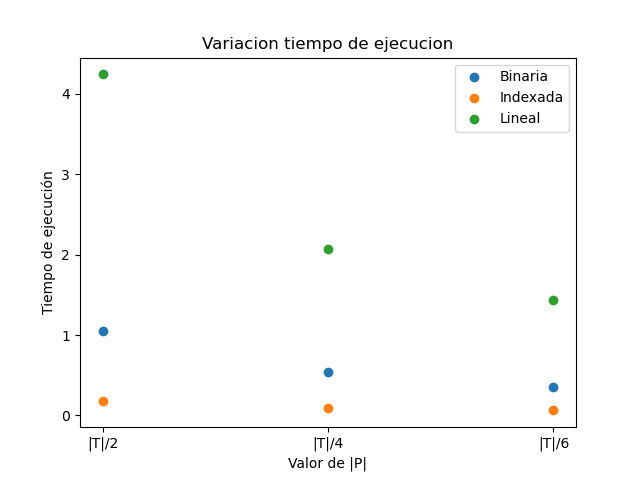
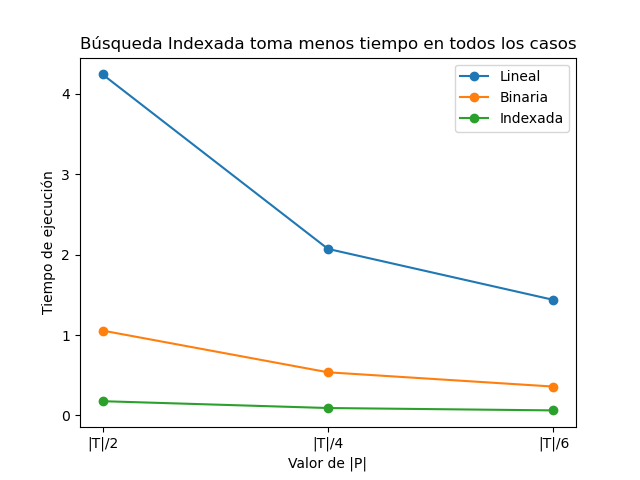
Cambios casi finales

diff --git a/graphtodos.py b/graphtodos.py
@@ -3,13 +3,13 @@ import numpy as np
 import sys
 
 if __name__ == "__main__":
-    Times_all = [[None for i in range(3)] for i in range(3)]
-    IOs_all = [[None for i in range(3)] for i in range(3)]
-    Times_all_std = [[None for i in range(3)] for i in range(3)]
-    IOs_all_std = [[None for i in range(3)] for i in range(3)]
-    names = ['Binary', 'Index', 'Linear']
+    Times_all = [[None for i in range(3)] for i in range(4)]
+    IOs_all = [[None for i in range(3)] for i in range(4)]
+    Times_all_std = [[None for i in range(3)] for i in range(4)]
+    IOs_all_std = [[None for i in range(3)] for i in range(4)]
+    names = ['Binary', 'Index', 'LinearBinary', 'LinearMerge']
     for i in range(3):
-        for j in range(3):
+        for j in range(4):
             Tf = open("Results_Experimento/TimesAndCount" + names[j] + str(i) + ".txt", newline='\n')
             results = Tf.readlines()
             Times = []
@@ -24,21 +24,22 @@ if __name__ == "__main__":
             IOs_all_std[j][i] = np.std(np.array(IOs))
     
     names = ['|T|/2','|T|/4', '|T|/6']
-    plt.title('Variacion tiempo de ejecucion')
-    plt.scatter(names, Times_all[:][0], label= 'Binaria')
-    plt.scatter(names, Times_all[:][1], label = 'Indexada')
-    plt.scatter(names, Times_all[:][2], label='Lineal')
+    plt.title('Búsqueda Lineal + Merge se ejecuta en el menor tiempo')
+    plt.plot(names, Times_all[:][2], label='Lineal + Binaria', marker='o' )
+    plt.plot(names, Times_all[:][0], label= 'Binaria', marker = 'o')
+    plt.plot(names, Times_all[:][1], label = 'Indexada', marker = 'o') 
+    plt.plot(names, Times_all[:][3], label='Lineal + Merge', marker='o' )
     plt.xlabel("Valor de |P|")
-    plt.ylabel("Tiempo de ejecución")
+    plt.ylabel("Tiempo de ejecución [s]")
     plt.legend()
     # plt.yscale('log')
-    plt.savefig("Tiempo_ejecucion2")
+    plt.savefig("Tiempo_ejecucion")
 
 
-    # plt.title('Variacion operaciones IO')
-    # plt.scatter(names, IOs_all[:][0], label= 'Binaria')
-    # plt.scatter(names, IOs_all[:][1],  label = 'Indexada')
-    # plt.scatter(names, IOs_all[:][2],  label='Lineal')
+    # plt.title('Búsqueda lineal realiza el menor número de operaciones IO')
+    # plt.plot(names, IOs_all[:][0], label= 'Binaria', marker = 'o')
+    # plt.plot(names, IOs_all[:][1],  label = 'Indexada', marker = 'o')
+    # plt.plot(names, IOs_all[:][2],  label='Lineal', marker = 'o')
     # plt.xlabel("Valor de |P|")
     # plt.ylabel("Operaciones IO")
     # plt.yscale('log')

diff --git a/graphvariantes.py b/graphvariantes.py
@@ -24,10 +24,10 @@ if __name__ == "__main__":
             IOs_all_std[j][i] = np.std(np.array(IOs))
     
     names = ['|T|/2','|T|/4', '|T|/6']
-    plt.title('Variacion tiempo de ejecucion')
-    plt.scatter(names, Times_all[:][0], label= 'Linear')
-    plt.scatter(names, Times_all[:][1], label = 'Lineal + Binaria')
-    plt.scatter(names, Times_all[:][2], label='Lineal + Merge')
+    plt.title('Búsqueda Lineal con Merge demora menos')
+    plt.plot(names, Times_all[:][0], label= 'Linear', marker = 'o')
+    plt.plot(names, Times_all[:][1], label = 'Lineal + Binaria', marker = 'o')
+    plt.plot(names, Times_all[:][2], label='Lineal + Merge', marker = 'o')
     plt.xlabel("Valor de |P|")
     plt.ylabel("Tiempo de ejecución")
     plt.legend()
